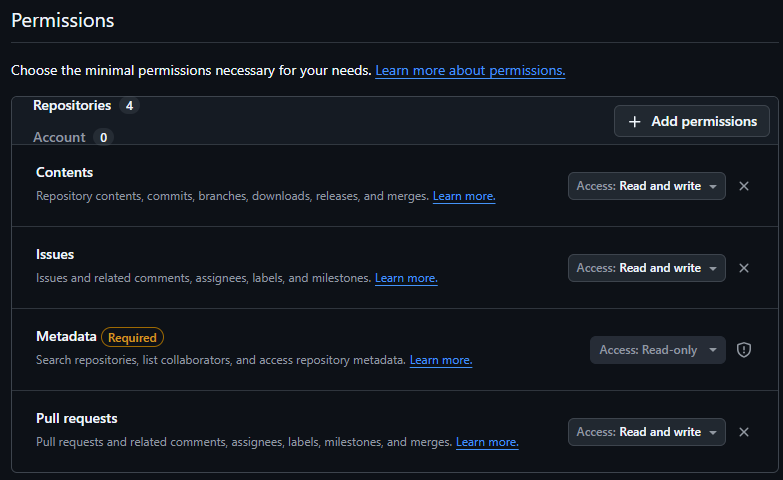
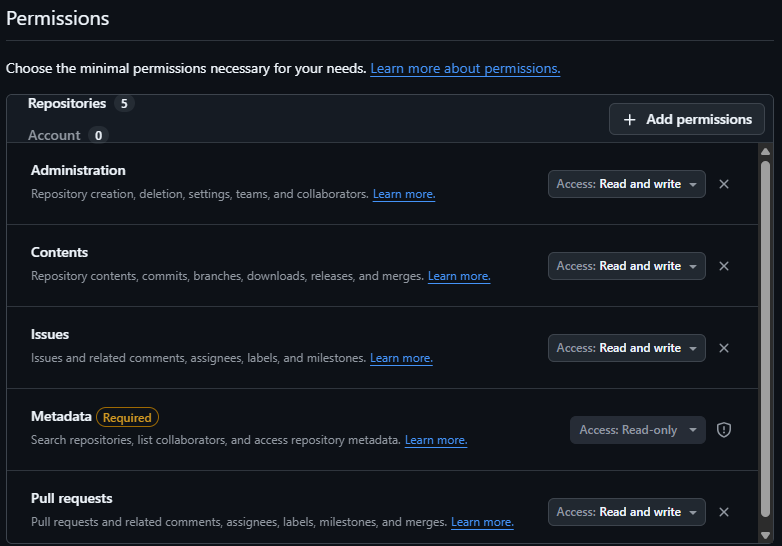
docs/kb : captures du token GitHub refaites (tous les dépôts, cinq permissions)

Changed region(s): [[0.0, 0.1875, 1.0, 1.0], [0.0, 0.4062, 0.6445, 0.8438], [0.0, 0.0, 0.9821, 0.375]]

diff --git a/docs/kb/05-token-github.md b/docs/kb/05-token-github.md
@@ -13,6 +13,8 @@ Connecté au compte GitHub qui recevra les applications, ouvrez [github.com/sett
 
 ## 2. Le régler
 
+[[capture:github-nouveau-token.png|Le haut du formulaire : nom, description, propriétaire, expiration et accès à tous les dépôts]]
+
 - **Token name** : un nom clair, par exemple `usine-logicielle` ;
 - **Resource owner** : le compte (ou l'organisation) qui recevra les dépôts ;
 - **Expiration** : notez la date, l'usine s'arrêtera de pousser ce jour-là ;
@@ -23,6 +25,8 @@ Connecté au compte GitHub qui recevra les applications, ouvrez [github.com/sett
   - **Issues** : *Read and write*, pour les issues d'escalade ;
   - **Pull requests** : *Read and write*, pour une pull request par tâche ;
   - **Metadata** : *Read-only*, ajouté d'office.
+
+[[capture:github-droits-token.png|Les cinq permissions : Administration, Contents, Issues et Pull requests en lecture et écriture, Metadata en lecture]]
 
 Cliquez sur **Generate token**.
 
